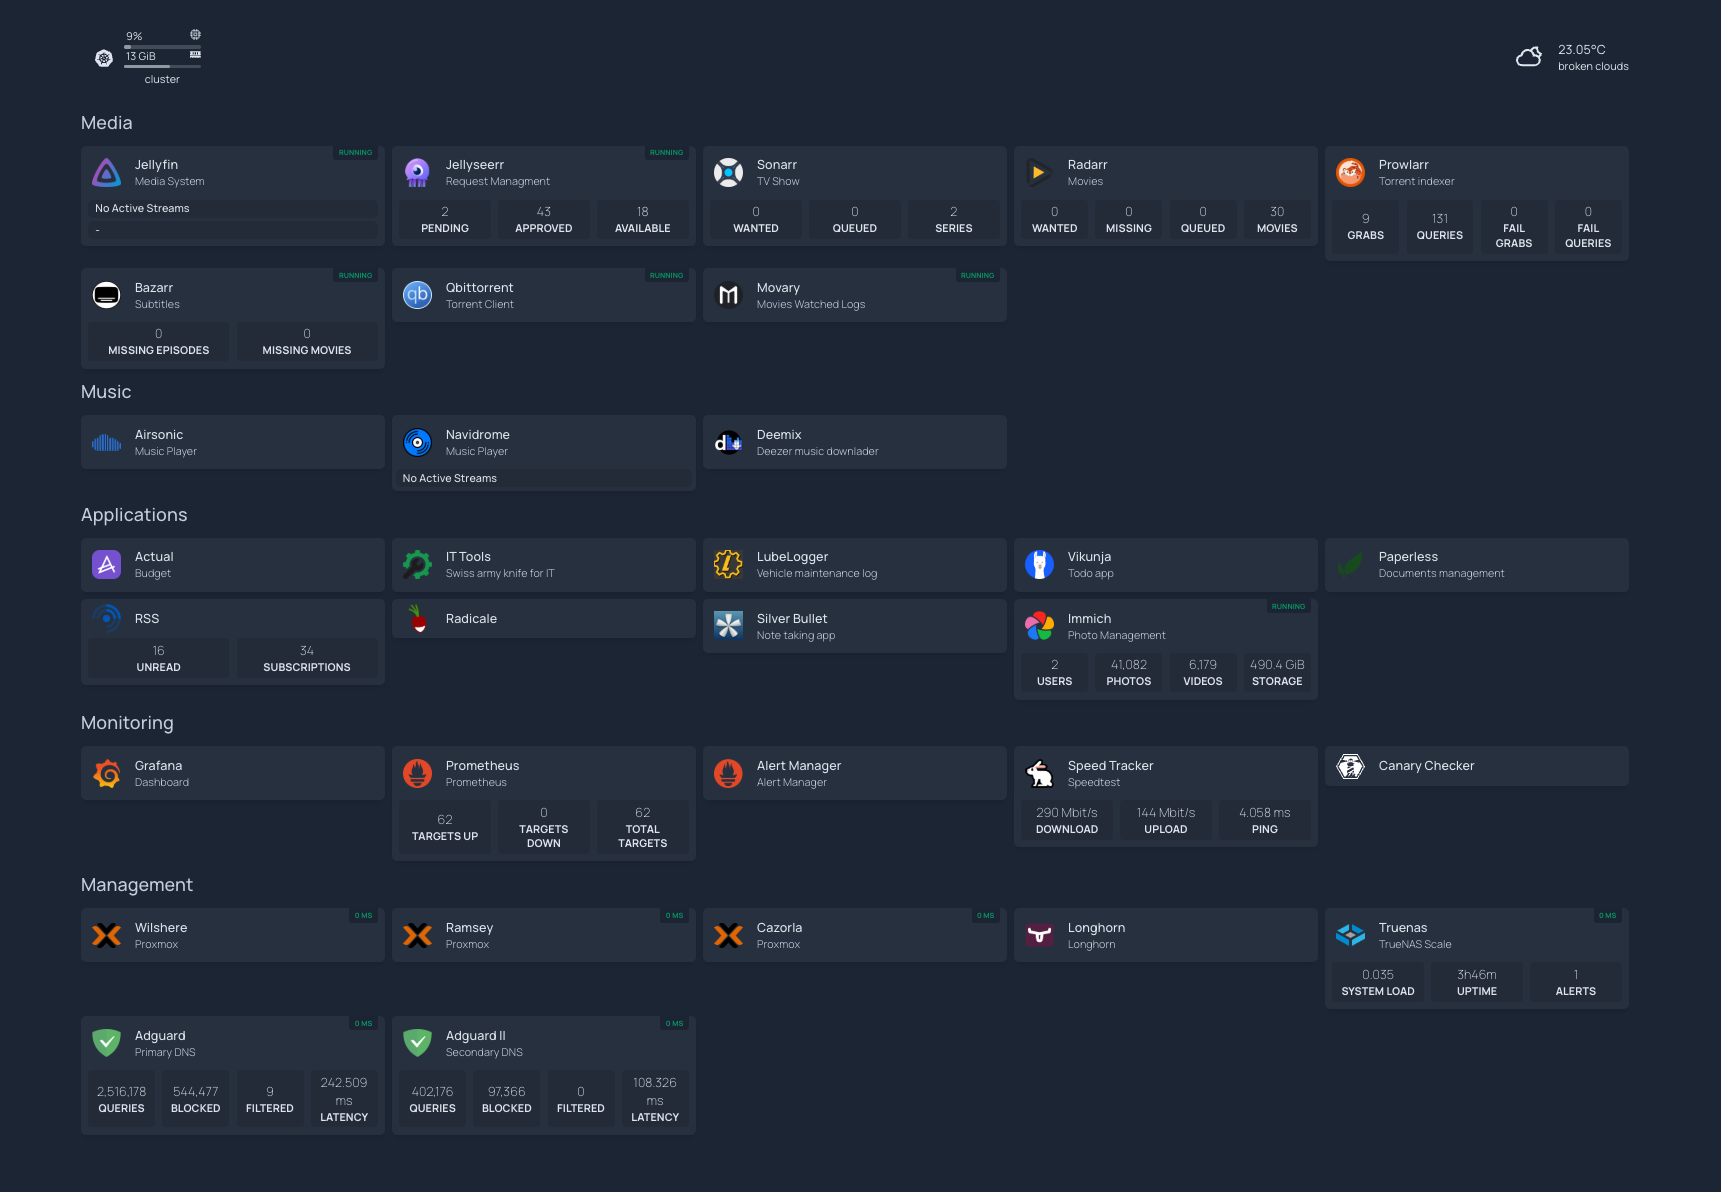
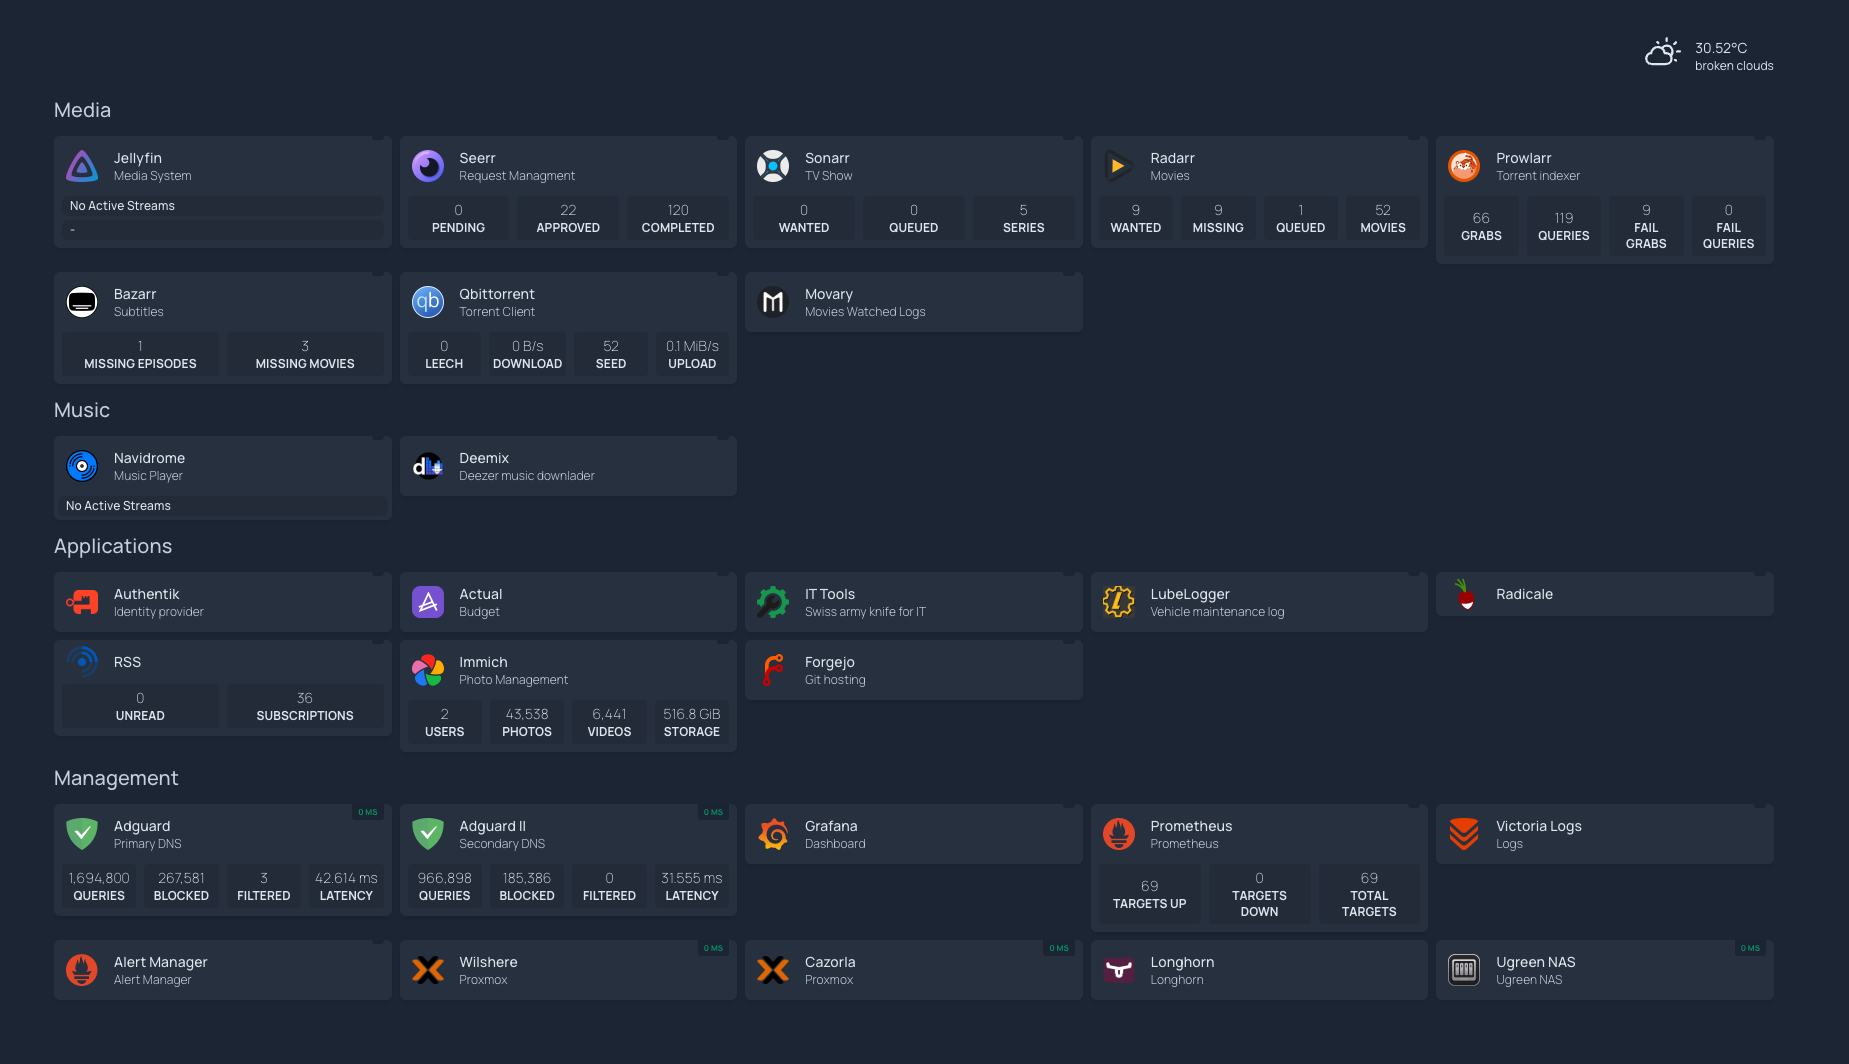
chore: Readme update

diff --git a/Readme.md b/Readme.md
@@ -84,7 +84,7 @@ make bootstrap
 
 | Role                            | Provider                | Notes                                                                                                                                                          |
 | ------------------------------- | ----------------------- | -------------------------------------------------------------------------------------------------------------------------------------------------------------- |
-| Service `LoadBalancer` provider | MetalLB                 | Allocates service external IPs from `first-pool` (`10.99.99.20-10.99.99.30`). The nginx ingress controller currently uses `10.99.99.25`.                       |
+| Service `LoadBalancer` provider | MetalLB                 | Allocates service external IPs from `first-pool` (`10.99.99.20-10.99.99.30`) for services such as Envoy Gateway.                                               |
 | Control plane LB provider       | kube-vip                | Provides the Kubernetes API/control-plane VIP at `10.99.99.222`. kube-vip service load balancing is disabled (`svc_enable=false`).                             |
 | Service traffic                 | K3s embedded kube-proxy | K3s runs kube-proxy inside the `k3s server`/`k3s agent` process, not as a Kubernetes DaemonSet. It handles ClusterIP/NodePort/service NAT using iptables mode. |
 | Pod networking                  | Flannel VXLAN           | K3s built-in flannel provides pod networking via `flannel.1` and `cni0`.                                                                                       |
@@ -101,8 +101,8 @@ This homelab uses a dual ExternalDNS setup to manage both internal (homelab) and
 
 1. **external-dns (AdGuard Home)** - Internal DNS
    - **Provider**: AdGuard Home via webhook
-   - **Sources**: Ingress resources
-   - **Purpose**: Automatically creates A records pointing to nginx-ingress (`10.99.99.25`) for all services
+   - **Sources**: Gateway API HTTPRoute resources
+   - **Purpose**: Automatically creates A records for internal service hostnames pointing to Envoy Gateway
    - **Usage**: Internal homelab DNS resolution
 
 2. **external-dns-cloudflare** - External DNS
@@ -115,17 +115,26 @@ This homelab uses a dual ExternalDNS setup to manage both internal (homelab) and
 
 For a service to be accessible both internally and externally:
 
-1. **Create an Ingress** (automatically managed by AdGuard ExternalDNS)
+1. **Create an HTTPRoute** attached to Envoy Gateway (automatically managed by AdGuard ExternalDNS)
 
    ```yaml
-   ingress:
-     enabled: true
-     className: nginx
-     hosts:
-       - host: "notes.${HOMELAB_DOMAIN}"
+   apiVersion: gateway.networking.k8s.io/v1
+   kind: HTTPRoute
+   metadata:
+     name: notes
+   spec:
+     parentRefs:
+       - name: envoy-internal
+         namespace: network
+     hostnames:
+       - notes.${HOMELAB_DOMAIN}
+     rules:
+       - backendRefs:
+           - name: notes
+             port: 80
    ```
 
-   → AdGuard creates: `notes.example.com → A → 10.99.99.25`
+   → AdGuard creates an internal A record for `notes.example.com` pointing to Envoy Gateway.
 
 2. **Create a DNSEndpoint** in `kubernetes/apps/network/external-dns-cloudflare/dnsendpoints.yaml` (managed by Cloudflare ExternalDNS)
    ```yaml
@@ -142,7 +151,9 @@ For a service to be accessible both internally and externally:
    ```
    → Cloudflare creates: `notes.example.com → CNAME → tunnel`
 
-**Result**: Same DNS name exists in both providers with different targets - internal clients use AdGuard (direct to ingress), external clients use Cloudflare (via tunnel).
+**Result**: Same DNS name exists in both providers with different targets - internal clients use AdGuard (direct to Envoy Gateway), external clients use Cloudflare (via tunnel).
+
+There are no Kubernetes `Ingress` resources in this cluster; routing is handled with Gateway API resources (`Gateway`, `HTTPRoute`, and `TCPRoute`) through Envoy Gateway.
 
 # Kubernetes Backup
 
@@ -156,7 +167,7 @@ This homelab implements a comprehensive three-tier backup strategy covering data
 ## Database Backups
 
 - **Tool**: CloudNative-PG (CNPG) operator with Point-in-Time Recovery
-- **Architecture**: 3-replica PostgreSQL cluster for high availability
+- **Architecture**: 2-replica PostgreSQL clusters for high availability
 - **Backup**: Continuous WAL archiving and base backups to Cloudflare R2
 - **Recovery**: Point-in-Time Recovery (PITR) capability
 - **Covers**: Immich, Movary, Fresh RSS, Vikunja, Speedtest Tracker